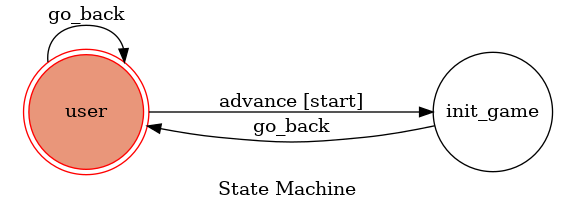
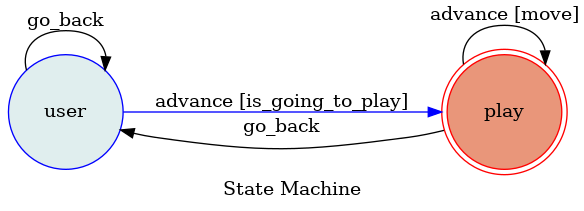
can show board

Changed region(s): [[0.0, 0.0284, 1.0, 0.8531], [0.7188, 0.0284, 1.0, 0.1706], [0.375, 0.8531, 0.625, 0.9384]]

diff --git a/src/app.py b/src/app.py
@@ -26,11 +26,16 @@ from linebot.models import MessageEvent, TextMessage, TextSendMessage
 from fsm import TocMachine
 from utils import send_text_message, send_image_message
 import texts
+
+from PIL import Image
+import random
 app = Flask(__name__)
 
 # get channel_secret and channel_access_token from your environment variable
 channel_secret = os.getenv('LINE_CHANNEL_SECRET', None)
 channel_access_token = os.getenv('LINE_CHANNEL_ACCESS_TOKEN', None)
+domain = 'https://7a11edb09d53.ngrok.io'
+
 
 if channel_secret is None:
     print('Specify LINE_CHANNEL_SECRET as environment variable.')
@@ -43,23 +48,23 @@ line_bot_api = LineBotApi(channel_access_token)
 parser = WebhookParser(channel_secret)
 
 machine = TocMachine(
-    states=["user", "playing"],
+    states=["user", "play"],
     transitions=[
         {
             "trigger": "advance",
             "source": "user",
-            "dest": "playing",
-            "conditions": "start"
+            "dest": "play",
+            "conditions": "is_going_to_play"
         },
         {
             "trigger": "advance",
-            "source": "playing",
-            "dest": "playing",
+            "source": "play",
+            "dest": "play",
             "conditions": "move"
         },
         {
             "trigger": "go_back",
-            "source": ["user", "init_game"],
+            "source": ["user", "play"],
             "dest": "user"
         }
     ],
@@ -92,18 +97,19 @@ def callback():
         if not isinstance(event.message.text, str):
             continue
         
+        txt = event.message.text.lower()
         print(f'\nFSM STATE: {machine.state}')
         # print(f'REQUEST BODY: \n{request.get_json()}')
         
         # general states
-        if event.message.text.lower() == 'fsm':
-            return send_image_message(event.reply_token, 'https://6d44374a6939.ngrok.io/show-fsm')
-        
+        if txt == 'fsm':
+            return send_image_message(event.reply_token, domain + '/show-fsm')
+
         response = machine.advance(event)
         if response == False:
             if machine.state == 'user':
                 send_text_message(event.reply_token, 'hi')
-            elif machine.state == 'init_game':
+            elif machine.state == 'play':
                 send_text_message(event.reply_token, '幹')
     return 'OK'
 
@@ -111,6 +117,38 @@ def callback():
 def show_fsm():
     machine.get_graph().draw('fsm.png', prog='dot', format='png')
     return send_file('fsm.png', mimetype='image/png')
+
+@app.route('/show-board/<stamp>', methods=['GET'])
+def show_board(stamp):
+    # open img
+    imageA = Image.open('sprites/board.png')
+    imageA = imageA.convert('RGBA')
+    widthA , heightA = imageA.size
+
+    #開啟簽名檔
+    imageB = Image.open('sprites/blackBishop.png')
+    imageB = imageB.convert('RGBA')
+    widthB , heightB = imageB.size
+
+    #新建一個透明的底圖
+    resultPicture = Image.new('RGBA', imageA.size, (0, 0, 0, 0))
+    #把照片貼到底圖
+    resultPicture.paste(imageA,(0,0))
+
+    #設定簽名檔的位置參數
+    offset = random.randint(0, 7) * 50
+    pos = (30 + offset, 30, 80 + offset, 80)
+
+    #為了背景保留透明度，將im參數與mask參數皆帶入重設過後的簽名檔圖片
+    resultPicture.paste(imageB, pos, imageB)
+
+    #儲存新的照片
+    
+    img_path = 'dump-file/' + stamp + '.png'
+    if not os.path.exists('dump-file'):
+        os.mkdir('dump-file')
+    resultPicture.save(img_path)
+    return send_file(img_path, mimetype='image/png')
 
 if __name__ == "__main__":
     http_port = int(os.environ.get("PORT", 8000))

diff --git a/src/fsm.py b/src/fsm.py
@@ -1,16 +1,21 @@
 from transitions.extensions import GraphMachine
 from linebot.models import ImageCarouselColumn, URITemplateAction, MessageTemplateAction
+from utils import send_text_message, send_image_message
+from datetime import datetime
 
-# global variable
+domain = 'https://7a11edb09d53.ngrok.io'
 
 class TocMachine(GraphMachine):
     def __init__(self, **machine_configs):
         self.machine = GraphMachine(model=self, **machine_configs)
 
-    def start(self, event):
+    def is_going_to_play(self, event):
         text = event.message.text
-        return text.lower() == "start"
-    
+        return text.lower() == "play"
+    def on_enter_play(self, event):
+        stamp = str(datetime.now().timestamp())
+        send_image_message(event.reply_token, domain + '/show-board/' + stamp)
+
     def move(self, event):
         text = event.message.text
         return True

diff --git a/src/utils.py b/src/utils.py
@@ -11,12 +11,6 @@ def send_text_message(reply_token, text):
     line_bot_api.reply_message(reply_token, TextSendMessage(text=text))
     return "OK"
 
-# def send_text_message_AI(reply_token, text):
-#     line_bot_api = LineBotApi(channel_access_token)
-#     line_bot_api.reply_message(reply_token,TextSendMessage(text=Olami().nli(text)))
-
-#     return "OK"
-
 def send_carousel_message(reply_token, col):
     line_bot_api = LineBotApi(channel_access_token)
     message = TemplateSendMessage(

diff --git a/src/texts.py b/src/texts.py
@@ -1,2 +1,2 @@
-HELP = '輸入 start 開始\n'\
+HELP = '輸入 play 開始棋局\n'\
        '輸入 surrender 認輸\n'
